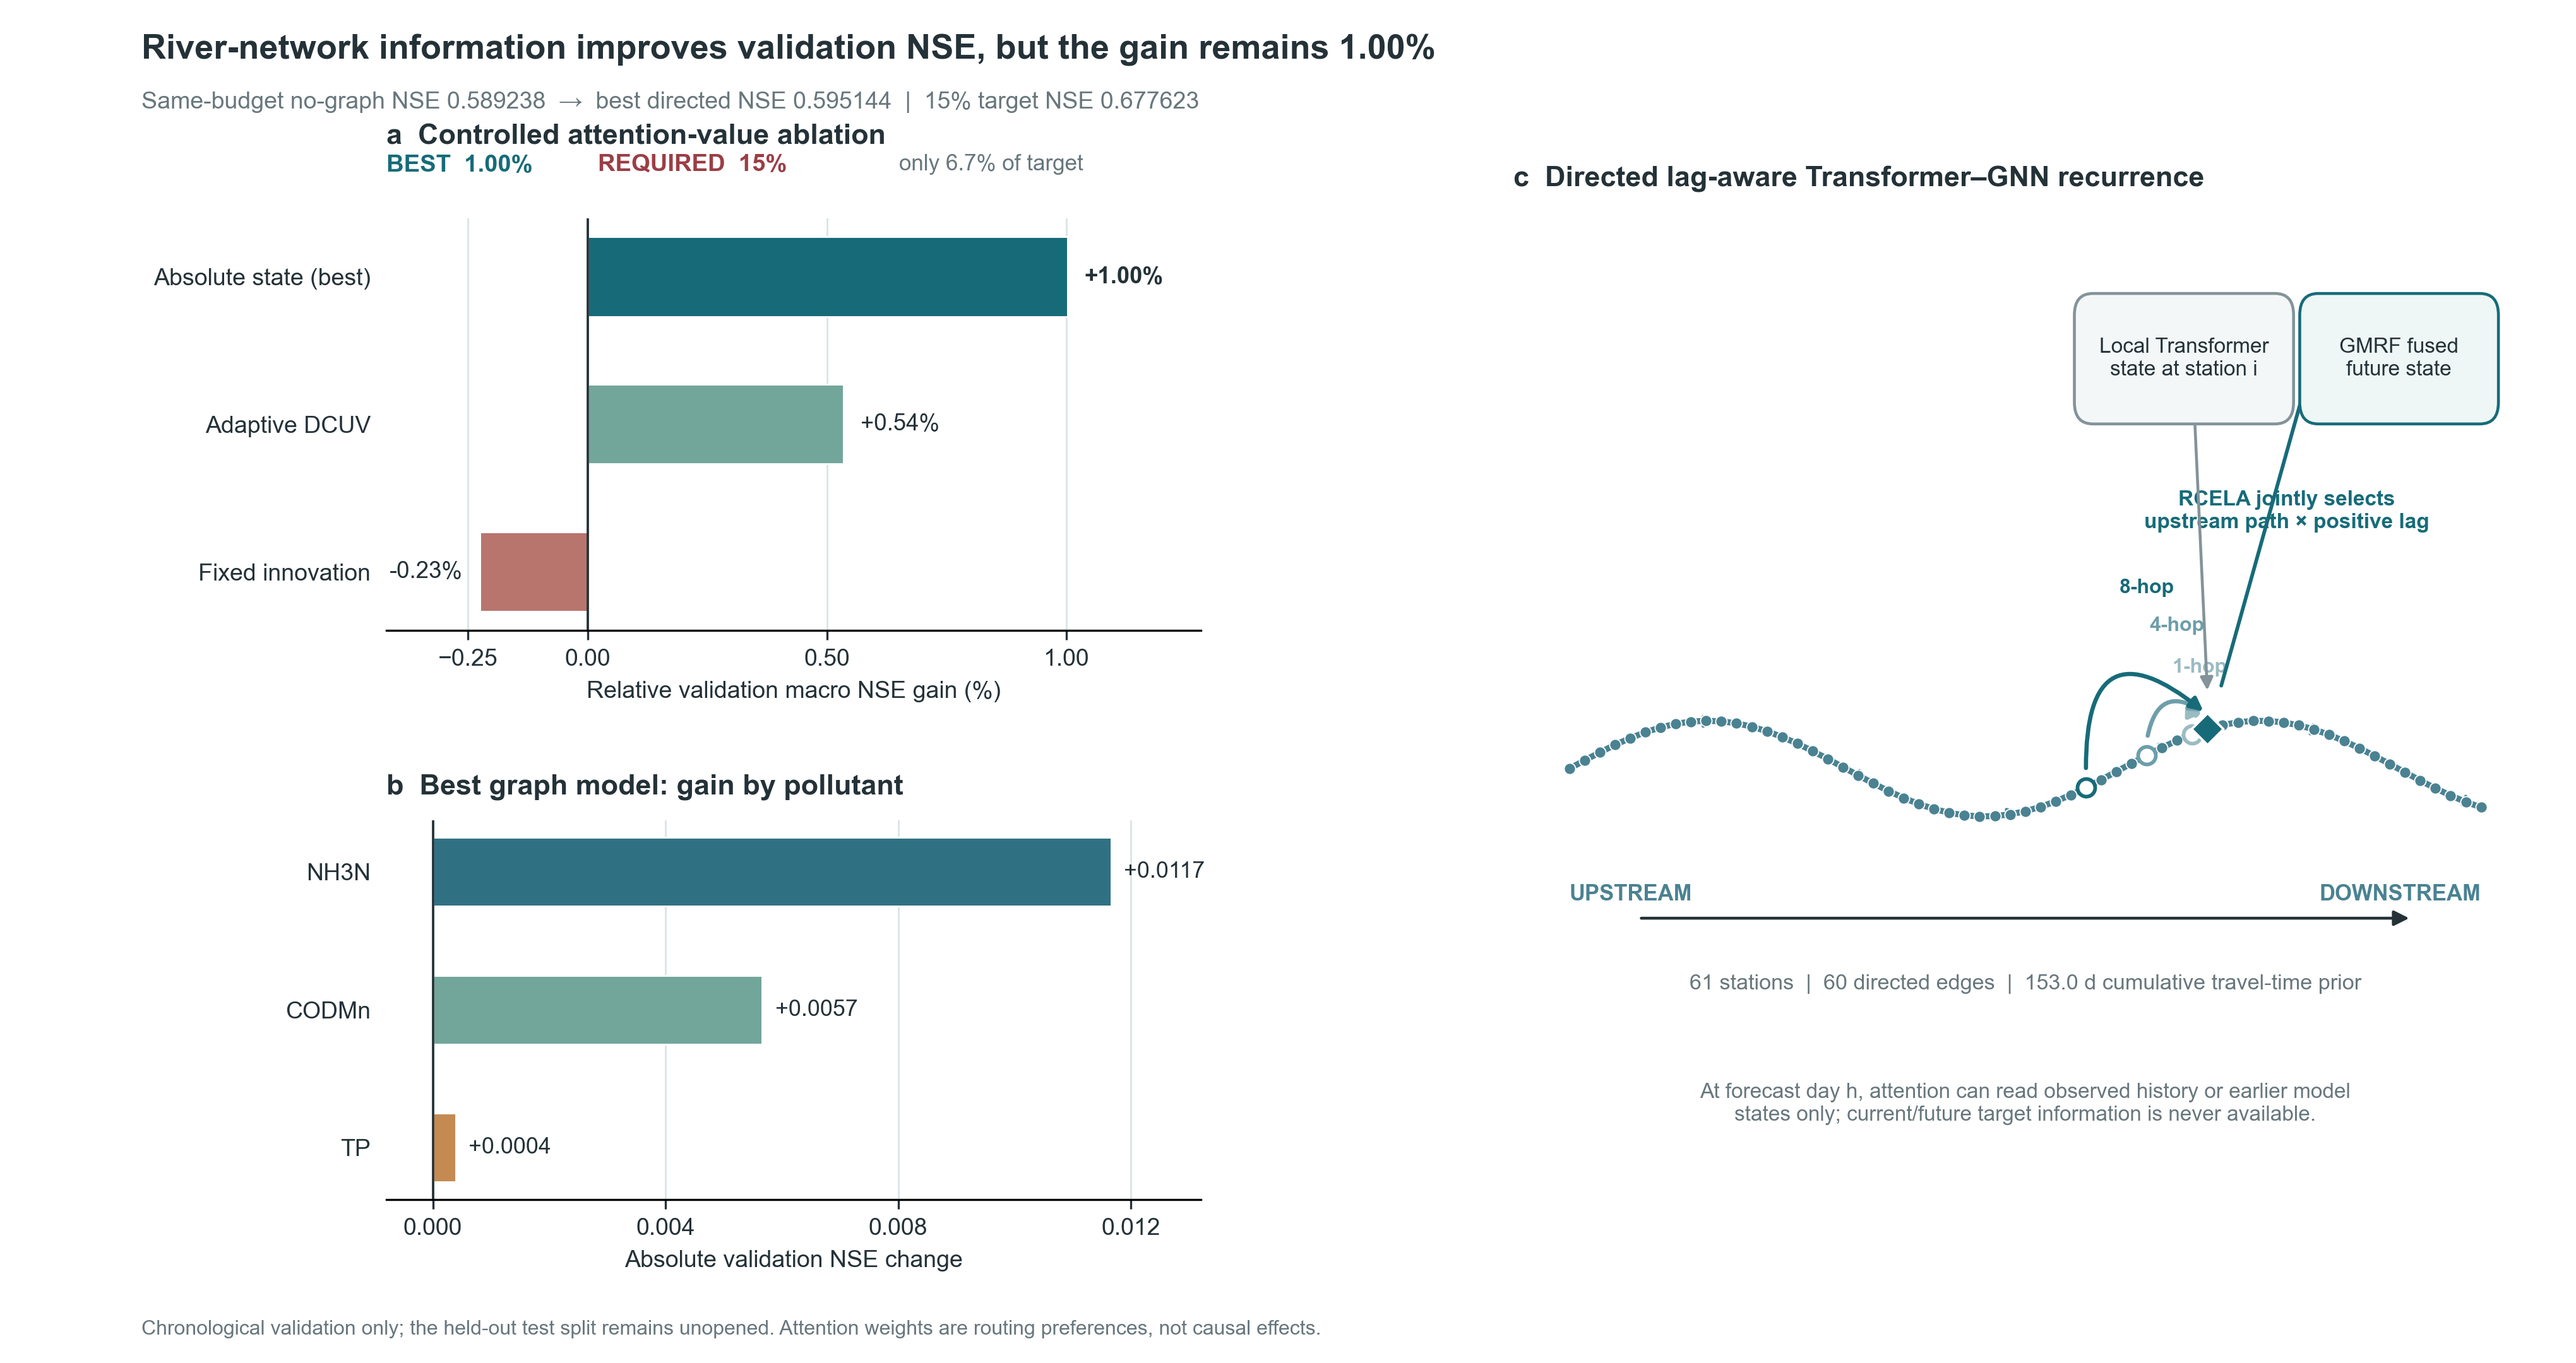
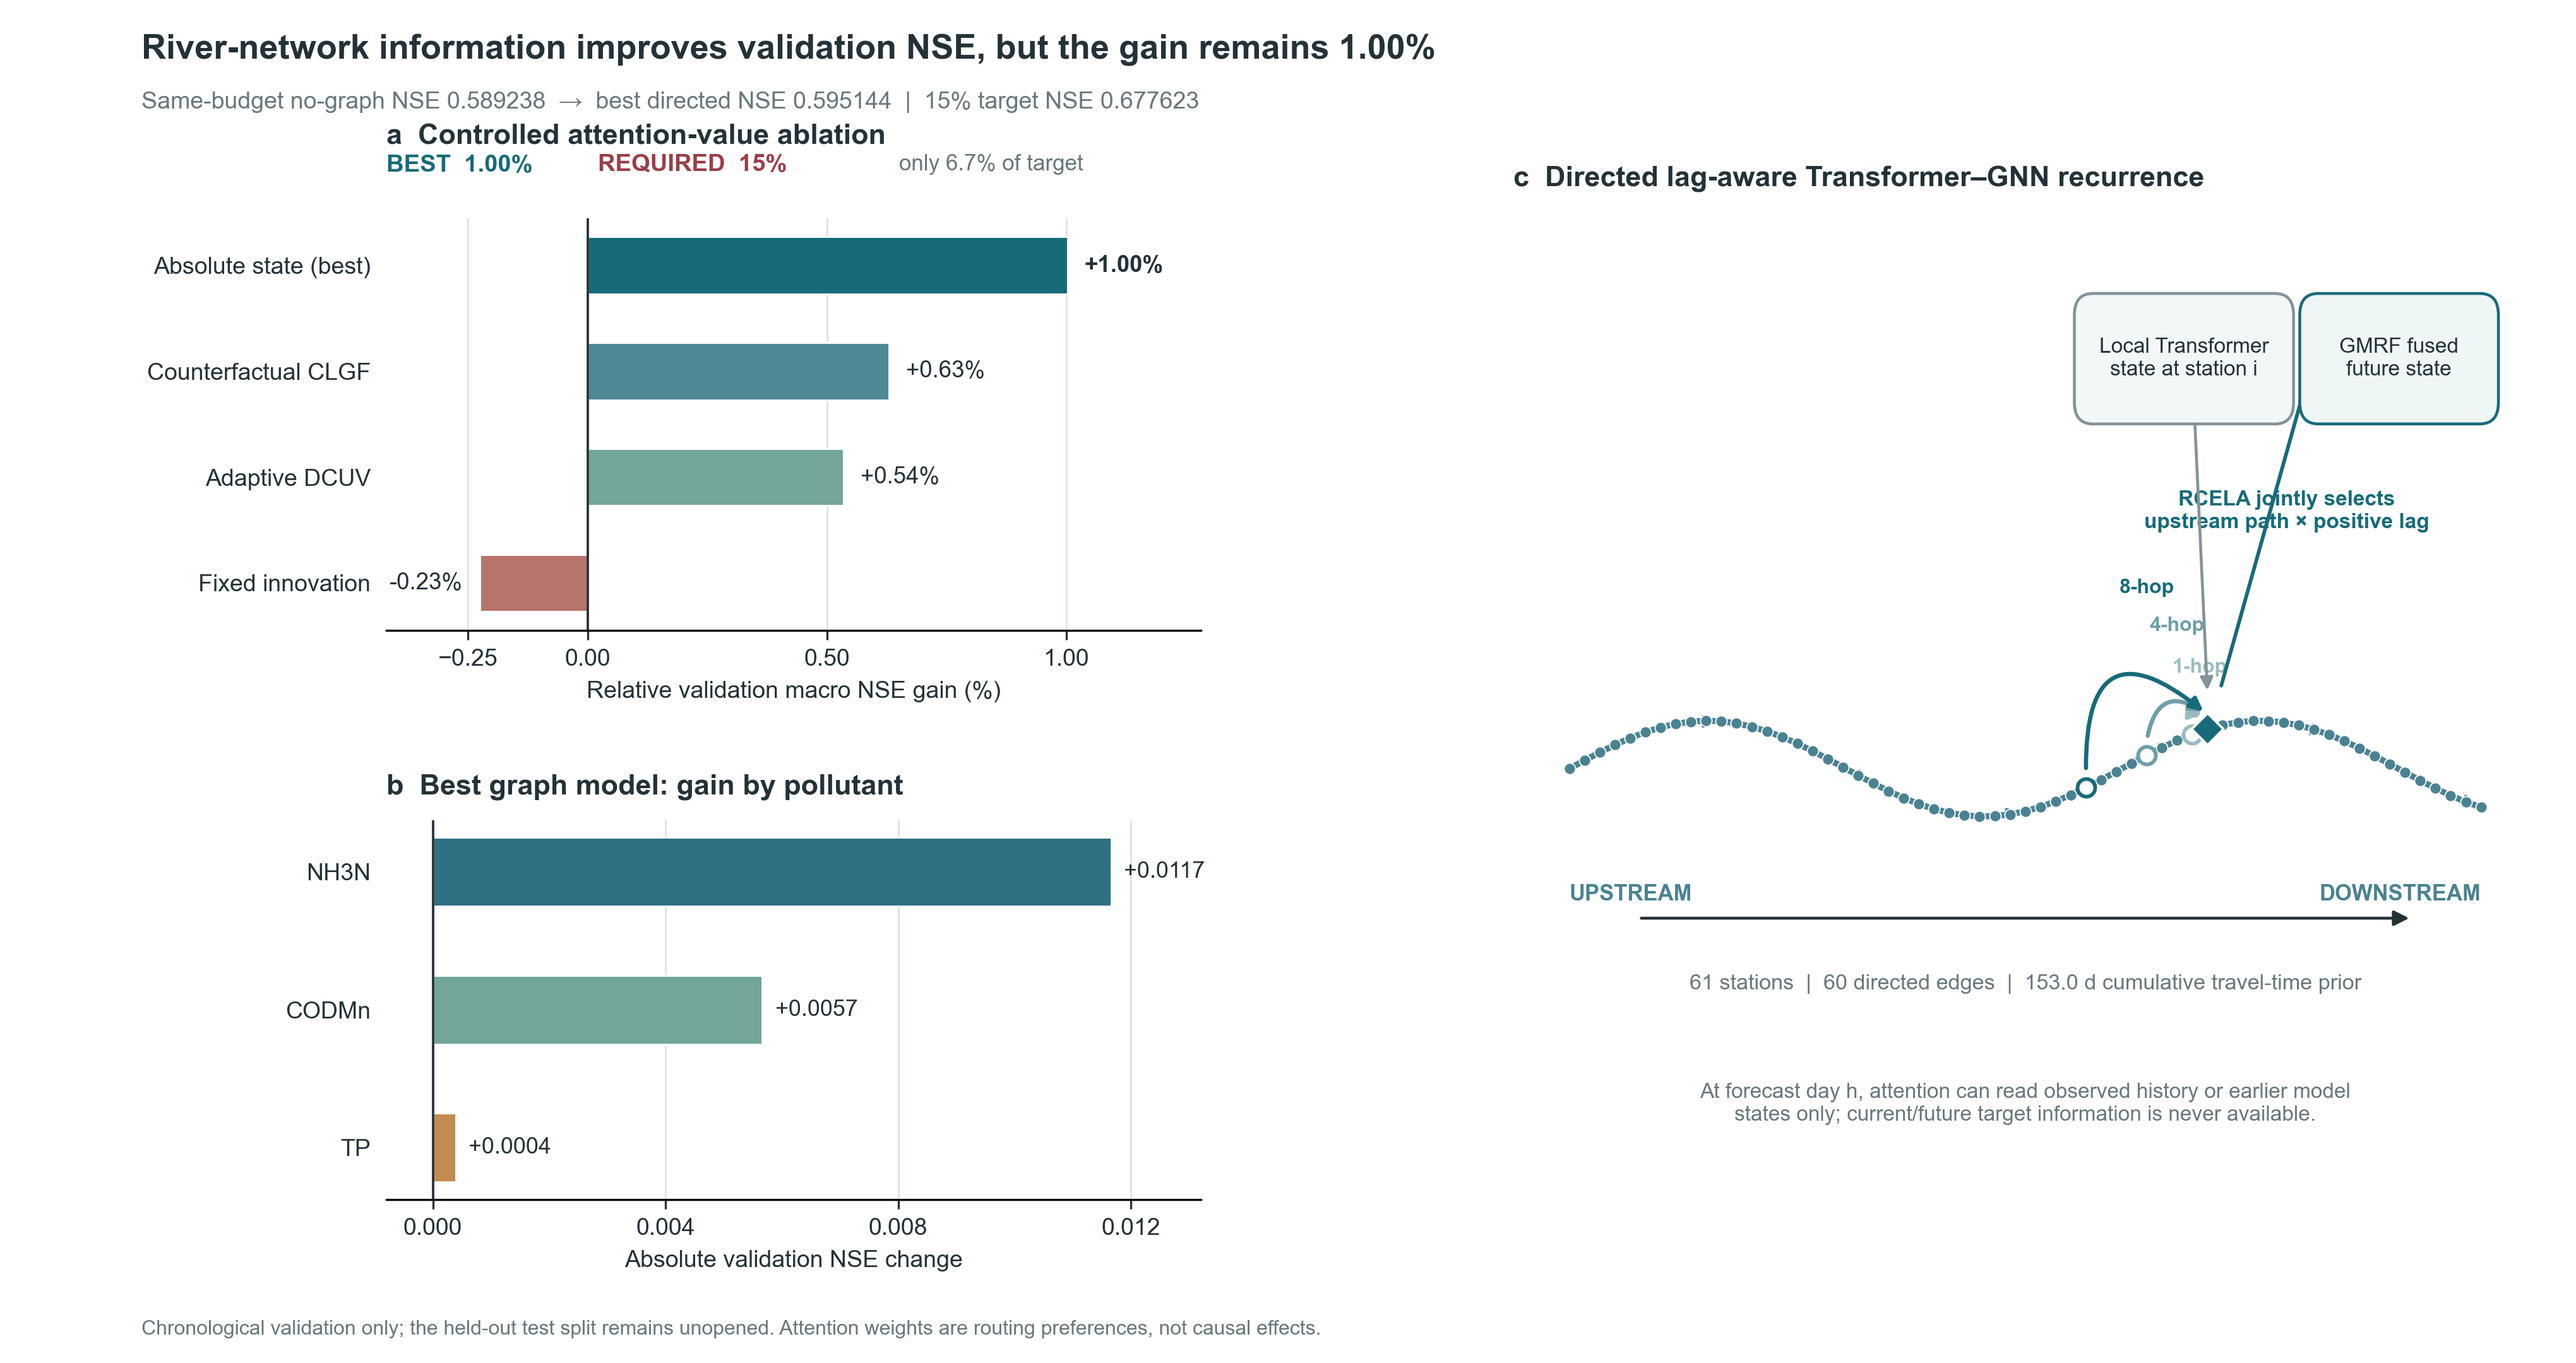
exp: evaluate counterfactual graph fusion

diff --git a/src/RiverLagNet/analysis/plot_graph_15pct_diagnostic.py b/src/RiverLagNet/analysis/plot_graph_15pct_diagnostic.py
@@ -24,6 +24,7 @@ GRID_COLOR = "#DCE4E7"
 RIVER_COLOR = "#4A8292"
 BEST_COLOR = "#176B79"
 ADAPTIVE_COLOR = "#72A69A"
+COUNTERFACTUAL_COLOR = "#4F8797"
 NEGATIVE_COLOR = "#B8756D"
 TARGET_COLOR = "#9B3E46"
 NH3N_COLOR = "#2F7183"
@@ -104,12 +105,18 @@ def _plot_model_gain(axis: plt.Axes, payload: dict[str, object]) -> None:
     ordered = [
         rows["RCELA + GMRF fixed innovation"],
         rows["RCELA + GMRF adaptive DCUV"],
+        rows["RCELA + GMRF counterfactual CLGF"],
         rows["RCELA + GMRF absolute state"],
     ]
-    labels = ["Fixed innovation", "Adaptive DCUV", "Absolute state (best)"]
-    colors = [NEGATIVE_COLOR, ADAPTIVE_COLOR, BEST_COLOR]
+    labels = [
+        "Fixed innovation",
+        "Adaptive DCUV",
+        "Counterfactual CLGF",
+        "Absolute state (best)",
+    ]
+    colors = [NEGATIVE_COLOR, ADAPTIVE_COLOR, COUNTERFACTUAL_COLOR, BEST_COLOR]
     gains = np.asarray([float(row["relative_gain_percent"]) for row in ordered])
-    positions = np.arange(3)
+    positions = np.arange(4)
     bars = axis.barh(
         positions,
         gains,

diff --git a/docs/core_result.md b/docs/core_result.md
@@ -64,6 +64,8 @@
 
 零起点 Dual-Component Upstream Values（DCUV）保留绝对状态投影，并学习额外的 `upstream_state - downstream_local_state` 投影。正式验证 macro NSE 为 `0.592391`，相对无图提升 `0.535%`，优于固定 innovation，但低于绝对状态 RCELA 的 `0.595144`，因此同样 discard。DCUV 对 NH3N、CODMn、TP 的 NSE 变化分别为 `+0.008124`、`+0.004953`、`-0.003618`；训练期拟合的全局最优图修正缩放仅为 `0.536`，表明自适应通道仍产生偏强修正，并且损害了 TP。测试集仍未使用。
 
+Counterfactual Local–Graph Fusion（CLGF）同时运行本地 Transformer 与 RCELA + GMRF 递归，并用目标×提前期门融合两者差值。正式验证 macro NSE 为 `0.592947`，相对无图提升 `0.629%`，仍低于绝对状态 RCELA，因此 discard。其 NH3N、CODMn、TP NSE 分别为 `0.542557`、`0.899938`、`0.336344`。90 个门的总体均值为 `0.521`，TP 均值仍为 `0.503`；共享图支路能够调整内部修正幅度来抵消输出门，使门没有形成预期的目标选择性。该结果表明继续增加输出融合门不能解决 15% 目标，下一步转向随水文状态变化的动态旅行时间 attention。测试集仍未使用。
+
 ## 可复现产物
 
 - 完整诊断：[graph_15pct_diagnostic_2026-07-14.md](graph_15pct_diagnostic_2026-07-14.md)
